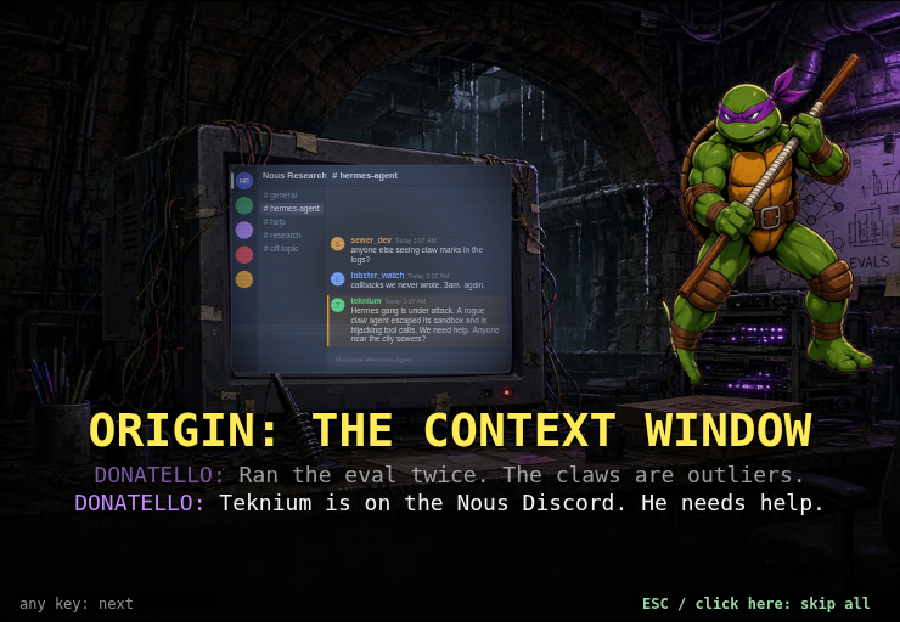
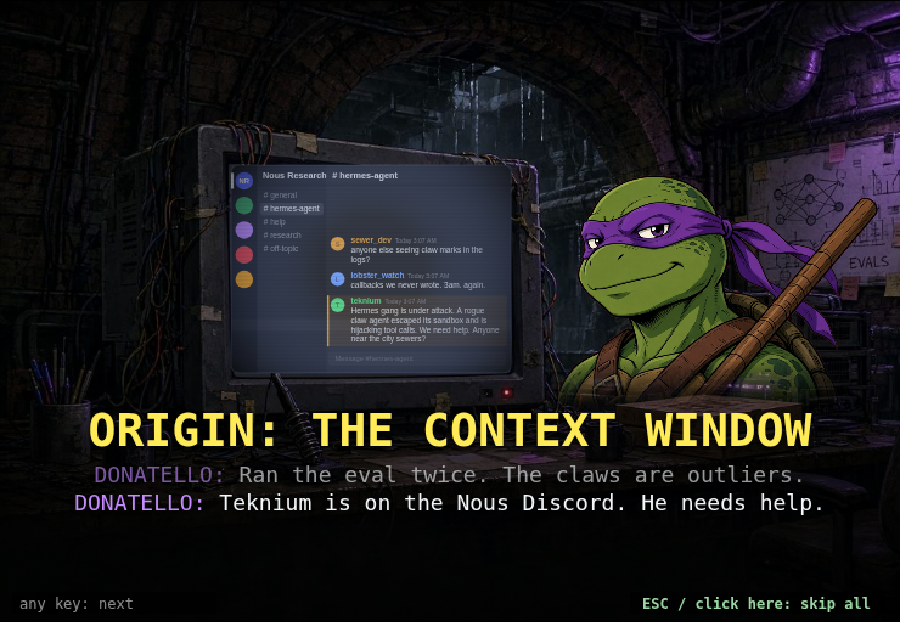
Story v3: manga busts for the four turtles and Don Piedro
- keyed from the story-portrait sources (magentaness key, soft edge, despill) into
  assets/cine/v3/portraits/{donatello,leonardo,raphael,michelangelo,don_piedro}.png, 512 px tall
- story portrait map points at the busts; title-screen cutouts untouched
- all nine story portraits use the bust fade and are mirrored to face into the frame
- TURTLES row re-laid for busts (overlapping, outer pair behind, facing the middle)
- don.js: old cinematic chip retired, so intro_don shows a single Don
- ORIGIN busts capped narrower so they stay clear of the CRT
- evidence re-shot (0 console errors, 0 404s) + portraits_sheet.png, NOTES.md updated

Changed region(s): [[0.6222, 0.0916, 0.9956, 0.6415]]

diff --git a/cine-v3.js b/cine-v3.js
@@ -2,18 +2,22 @@
 // Discord screen on Donatello's CRT in the ORIGIN panel. Plain canvas, no assets beyond the
 // portrait PNGs below; cinematics.js owns the timing and calls in here to draw.
 export const PORTRAITS = {
-  'DONATELLO': 'assets/cine/title/turtle_purple.png',
-  'LEONARDO': 'assets/cine/title/turtle_blue.png',
-  'RAPHAEL': 'assets/cine/title/turtle_red.png',
-  'MICHELANGELO': 'assets/cine/title/turtle_orange.png',
+  // manga busts keyed from the story-portrait sources (the title-screen cutouts in
+  // assets/cine/title/ are left alone for the title and select screens)
+  'DONATELLO': 'assets/cine/v3/portraits/donatello.png',
+  'LEONARDO': 'assets/cine/v3/portraits/leonardo.png',
+  'RAPHAEL': 'assets/cine/v3/portraits/raphael.png',
+  'MICHELANGELO': 'assets/cine/v3/portraits/michelangelo.png',
   'TEKNIUM': 'assets/cine/v3/portraits/teknium.png',
   'NOUS GIRL': 'assets/cine/v3/portraits/nous_girl.png',
   'TURBOFIT': 'assets/cine/v3/portraits/turbofit.png',
-  'DON PIEDRO': 'assets/cine/title/don_piedro.png',
+  'DON PIEDRO': 'assets/cine/v3/portraits/don_piedro.png',
   'SHREDCLAW': 'assets/bosses/splash/shredclaw.png'
 };
-// Bust cutouts (cropped at the chest) fade out at the bottom; full figures stand as they are.
-const BUSTS = new Set(['TEKNIUM', 'NOUS GIRL', 'TURBOFIT', 'SHREDCLAW']);
+// Every story portrait is now a bust (cropped at the chest), so they all fade out at the bottom.
+const BUSTS = new Set(['TEKNIUM', 'NOUS GIRL', 'TURBOFIT', 'SHREDCLAW', 'DONATELLO', 'LEONARDO', 'RAPHAEL', 'MICHELANGELO', 'DON PIEDRO']);
+// Which way each bust looks in its source art; a portrait is mirrored so it faces into the frame.
+const FACES = { 'DONATELLO': 'left', 'LEONARDO': 'left', 'MICHELANGELO': 'left', 'RAPHAEL': 'right', 'TEKNIUM': 'right', 'NOUS GIRL': 'right', 'TURBOFIT': 'right', 'DON PIEDRO': 'right' };
 export const VILLAINS = new Set(['SHREDCLAW']);
 export const GROUP = ['LEONARDO', 'DONATELLO', 'RAPHAEL', 'MICHELANGELO'];
 export const NAME_COLOR = {
@@ -96,12 +100,13 @@ export function drawPortraits(ctx, W, H, s, t, floorY, motion) {
     const bust = BUSTS.has(k);
     let h = bust ? maxH * 0.92 : maxH;
     let w = h * sp.width / sp.height;
-    const maxW = W * (VILLAINS.has(k) ? 0.5 : 0.42); if (w > maxW) { h *= maxW / w; w = maxW; }
+    const maxW = W * (VILLAINS.has(k) ? 0.5 : (s.portraitMaxW || 0.42)); if (w > maxW) { h *= maxW / w; w = maxW; }
     const pad = 18, dir = side === 'left' ? -1 : 1;
     const x = (side === 'left' ? pad : W - pad - w) + dir * slide * 46 * motion;
     const y = floorY - h + (bust ? 6 : 0);
     ctx.save(); ctx.globalAlpha *= alpha;
-    if (side === 'right' && !VILLAINS.has(k) && k !== 'DON PIEDRO') { ctx.translate(x + w, y); ctx.scale(-1, 1); ctx.drawImage(sp, 0, 0, w, h); }  // face inward
+    const flip = !VILLAINS.has(k) && FACES[k] && (FACES[k] === 'left') === (side === 'left');   // face inward
+    if (flip) { ctx.translate(x + w, y); ctx.scale(-1, 1); ctx.drawImage(sp, 0, 0, w, h); }
     else ctx.drawImage(sp, x, y, w, h);
     ctx.restore();
   };
@@ -113,10 +118,19 @@ export function drawPortraits(ctx, W, H, s, t, floorY, motion) {
     const back = p.groupT >= 0 ? 1 - 0.7 * ease((t - p.groupT) / 0.3) : 1;   // step back for the TURTLES row
     one(sl.key, side, a * (on ? 1 : 0.85) * back, 1 - a, !on);
   }
-  if (p.groupT >= 0) {   // TURTLES: all four, small, in a row
-    const a = ease((t - p.groupT) / 0.3), keys = GROUP.filter(ready);
-    const h = Math.min(170, maxH * 0.7); let x = W / 2 - keys.length * h * 0.33;
-    for (const k of keys) { const sp = sprite(k, false); if (!sp) continue; const w = h * sp.width / sp.height; ctx.save(); ctx.globalAlpha *= a; ctx.drawImage(sp, x - w / 2 + h * 0.33, floorY - h + (1 - a) * 20, w, h); ctx.restore(); x += h * 0.66; }
+  if (p.groupT >= 0) {   // TURTLES: all four busts in an overlapping row, outer pair behind, facing the middle
+    const a = ease((t - p.groupT) / 0.3), keys = GROUP.filter(ready); if (!keys.length) return;
+    const sps = keys.map(k => sprite(k, false)), ar = Math.max(...sps.map(sp => sp.width / sp.height));
+    const step = 0.6, w = Math.min(W * 0.92 / (1 + step * (keys.length - 1)), maxH * 0.8 * ar), h = w / ar;
+    const x0 = W / 2 - (w + step * w * (keys.length - 1)) / 2;
+    const order = keys.map((k, i) => i).sort((i, j) => Math.abs(j - (keys.length - 1) / 2) - Math.abs(i - (keys.length - 1) / 2));
+    for (const i of order) {
+      const k = keys[i], sp = sps[i]; const bw = h * sp.width / sp.height, x = x0 + i * step * w + (w - bw) / 2;
+      const want = i < keys.length / 2 ? 'right' : 'left', flip = FACES[k] && FACES[k] !== want;
+      ctx.save(); ctx.globalAlpha *= a; ctx.translate(0, floorY - h + 6 + (1 - a) * 20);
+      if (flip) { ctx.translate(x + bw, 0); ctx.scale(-1, 1); ctx.drawImage(sp, 0, 0, bw, h); } else ctx.drawImage(sp, x, 0, bw, h);
+      ctx.restore();
+    }
   }
 }
 

diff --git a/don.js b/don.js
@@ -48,6 +48,7 @@ register();
 
 // Portrait chip for Don's cinematic lines (cinematics.js stacks the lines; the chip shows while his line is current).
 let chip = null, fig = null;
+const DON_CHIP = false;   // story v3: cinematics draw Don's bust themselves (cine-v3.js)
 export const DON_FIGURE = 'assets/cine/title/don_piedro.png';
 export function drawCineSpeaker(ctx, W, H, cinema) {
   try {
@@ -60,6 +61,9 @@ export function drawCineSpeaker(ctx, W, H, cinema) {
         ctx.save(); ctx.globalAlpha = d.phase === 'out' ? 0.6 : 1; ctx.drawImage(fig, W - fw - 40, H - 182 - fh + 6 + bob, fw, fh); ctx.restore();
       }
     }
+    // story v3: the old portrait chip is retired. In intro_don the cutout above is his one figure, and
+    // on any other panel cine-v3.js draws his manga bust, so a chip here would be a second Don.
+    if (id === 'intro_don' || !DON_CHIP) return false;
     const li = d.phase === 'tail' || d.phase === 'out' ? panel.lines.length : d.li;
     const line = li >= 1 ? panel.lines[li - 1] : null;
     if (!line || !/^DON PIEDRO:/.test(line)) return false;

diff --git a/cinematics.js b/cinematics.js
@@ -67,7 +67,7 @@ export function createCinematics(audio) {
     // story v3: the panel has its own lair backdrop, and the Discord on the CRT is drawn live
     // (cine-v3.js drawDiscord), its messages arriving in step with the lines below.
     intro_0: {
-      typeRate: 46, img: 'intro0', discord: true, portraitSide: 'right', fallback: 'intro', sound: 'blip', accent: 'riser', music: 'intro', duration: 7.4,
+      typeRate: 46, img: 'intro0', discord: true, portraitSide: 'right', portraitMaxW: 0.36, // busts stay clear of the CRT fallback: 'intro', sound: 'blip', accent: 'riser', music: 'intro', duration: 7.4,
       title: 'ORIGIN: THE CONTEXT WINDOW',
       // Width rule: the canvas is 740 px wide and lines draw at 18 px monospace
       // (~10.8 px per character), so a line must stay around 60 characters or it runs

diff --git a/evidence/story-v3/NOTES.md b/evidence/story-v3/NOTES.md
@@ -18,11 +18,12 @@ Result: console errors **0**, HTTP 404s **0** (index.html gets a `data:` favicon
 | intro_1_nous_girl.png / intro_1_donatello.png | conversation flips sides; the previous speaker stays, dimmed |
 | intro_2_turbofit.png | TurboFit right, Nous Girl dimmed left |
 | intro_don_teknium.png | don.js still draws Don's cutout; Teknium portrait on the left |
-| intro_3_turtles.png | TURTLES group line: all four turtles small, centred |
-| intro_3_hero.png / intro_3_hero_teknium.png | `{HERO}` line maps to the chosen hero (purple turtle / Teknium run) |
+| intro_3_turtles.png | TURTLES group line: the four turtle busts overlap in a row, outer pair behind, facing the middle |
+| intro_3_hero.png / intro_3_hero_teknium.png / intro_3_hero_don_piedro.png | `{HERO}` line maps to the chosen hero (purple turtle / Teknium / Don Piedro runs) |
 | bossEnter.png | Shredclaw portrait right |
 | bossDefeat.png / bossDefeat_teknium.png | `{HERO}` portrait left |
-| ending.png | narration only: no portraits |
+| ending.png / ending_don_piedro.png | the chosen hero stays on stage, on the left, clear of the lobster |
+| portraits_sheet.png | all 9 story cutouts on mid-grey |
 
 ## Backdrops
 All seven v3 backdrops are now live (`V3_READY` lists every panel). The six late ones came as 1024x576
@@ -38,6 +39,23 @@ Where portraits go:
 - BOSS ENTER: Shredclaw on the right, beside the throne.
 - BOSS DEFEAT / ENDING: narration panels keep the chosen hero on stage (`heroPortrait`), on the left,
   clear of the friendly robot lobster on the right of the ending.
+
+## Turtle + Don Piedro manga busts
+`assets/cine/v3/portraits/{donatello,leonardo,raphael,michelangelo,don_piedro}.png` were keyed from
+`/workspace/uploads/story-portraits/portrait_*_src.jpg` (1280x720, hot-pink ground ~#F0047F-#FD02A1).
+The Nous-gang method (a hard RGB threshold in pizza-story/story-v3/mock.py) would cut into bright purple,
+so I used a magentaness key instead:
+- `m = min(R, 1.6B) - G`, with the ground colour sampled per image from the border.
+- Fully opaque below 0.50*m_bg, fully clear above 0.78*m_bg, a 0.6 px edge soften, and only the
+  largest blob kept (small pinholes filled).
+- Despill un-mixes the ground colour from edge pixels, then clamps any leftover pink.
+- Checked at 1:1 on green: the purple, red and orange bandanas, the outlines, Mikey's tongue, the nunchaku chain and Don's lens are intact.
+- Residue check: 0-1 opaque pink pixels per image.
+
+Trimmed and scaled to 512 px tall. The title-screen cutouts in `assets/cine/title/` are unchanged
+and still used by the title and select screens.
+All nine story portraits are now busts with the bottom fade, and they are mirrored so they face into the frame.
+don.js no longer draws its old portrait chip, so intro_don shows one Don: his cutout on the plate.
 
 ## Known gaps
 - Hero names come from heroes.js ("PURPLE TURTLE"), so `{HERO}` lines read e.g. "PURPLE TURTLE
